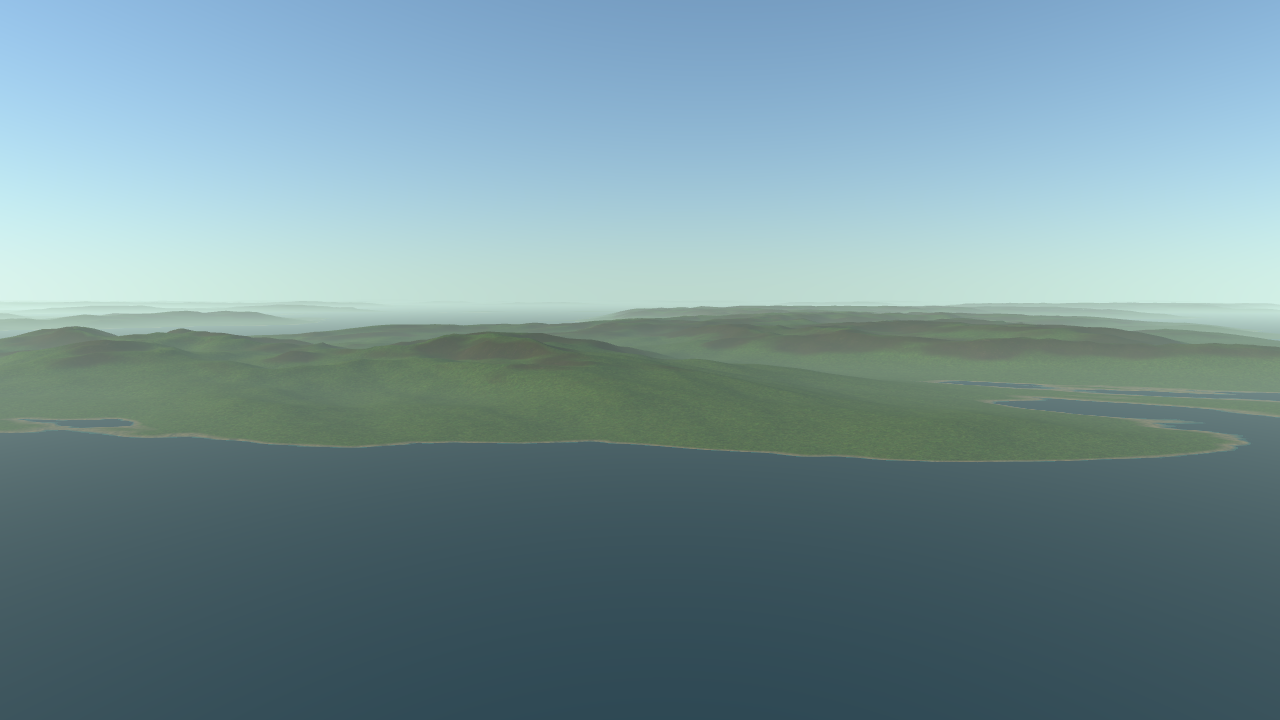
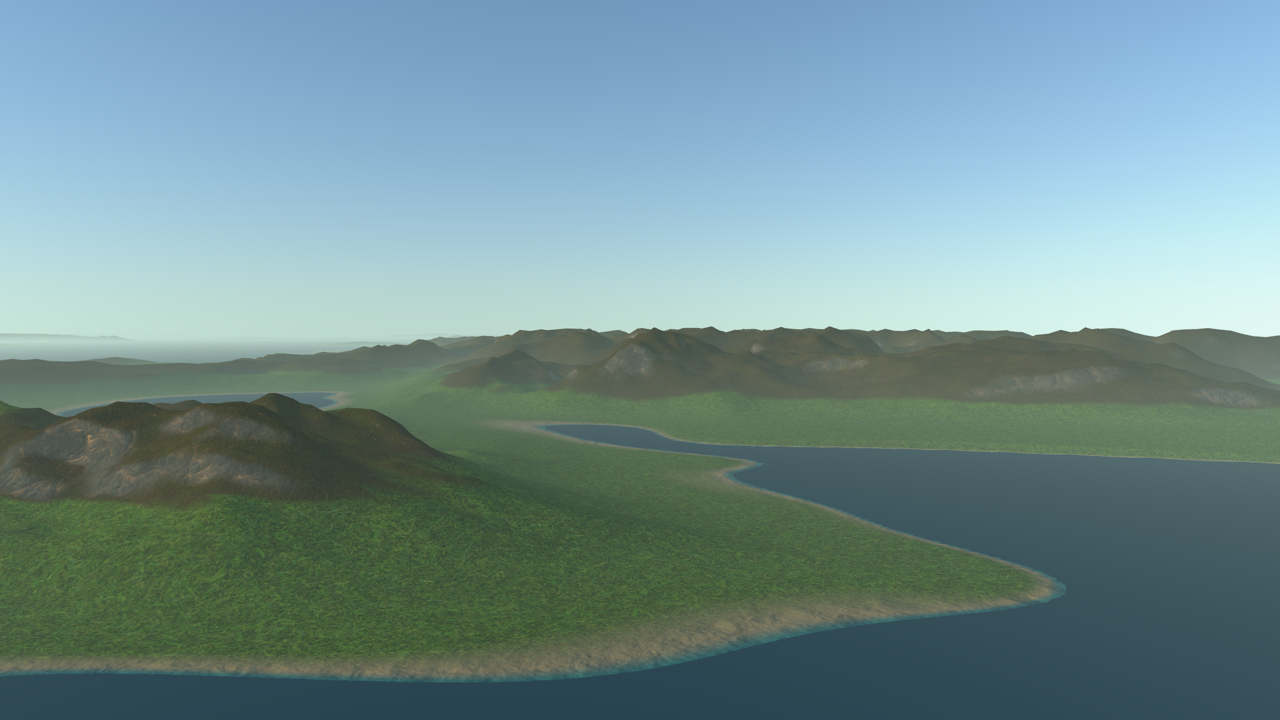
Lower the archipelago preset over the new peaks and update milestone 5

diff --git a/src/render/ViewPresets.cpp b/src/render/ViewPresets.cpp
@@ -17,9 +17,9 @@ const std::array<ViewPreset, 5> kPresets = {{
     // Low over the Glenbeigh hills (~400 m above them), looking west-north-west across Dingle Bay
     // and the Dingle peninsula to the Atlantic; the south-west sun rakes in from the left.
     {"glenbeigh", glm::vec3(-154956.0f, 0.0f, 137293.0f), 1.047f, 0.045f, 30030.0f},
-    // Procedural archipelago ~1160 km north-west of Ireland (default seed), looking north-west
-    // across the islands with the south-west sun to the left.
-    {"archipelago", glm::vec3(-994e3f, 0.0f, -235e3f), 0.785f, 0.07f, 50e3f},
+    // Procedural archipelago ~1040 km west-north-west of Ireland (default seed): low over a bay,
+    // looking north-west at a ridged massif with the south-west sun to the left.
+    {"archipelago", glm::vec3(-1005e3f, 900.0f, -265e3f), 0.5f, 0.03f, 60e3f},
 }};
 
 } // namespace
